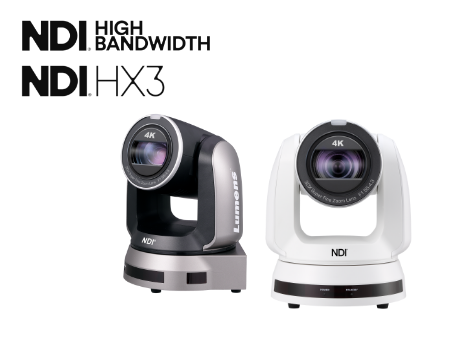
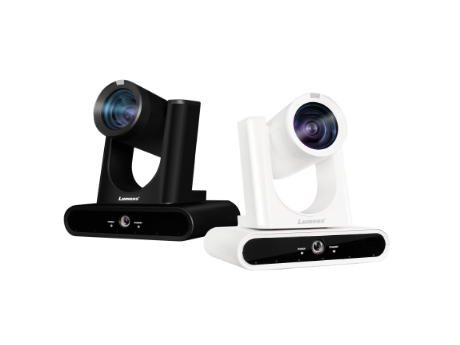
Fix homepage polish issues from design review
- Swap the entry-card product photo for one without the "NDI" text
  overlay baked in.
- Add missing spacing between the hero search bar and the entry cards
  below it (they were touching).
- Drop the entry-card eyebrow badge — it duplicated the heading text
  directly below it.

diff --git a/assets/css/style.css b/assets/css/style.css
@@ -47,7 +47,6 @@
   --card-dark-ink:#ffffff;
   --card-dark-ink-soft:rgba(255,255,255,.68);
   --card-dark-chip:rgba(255,255,255,.10);
-  --card-dark-badge:rgba(255,255,255,.12);
 
   --radius-sm:6px;
   --radius:10px;
@@ -213,7 +212,7 @@ ul{margin:0; padding:0;}
 .hero h1{font-size:38px; margin-bottom:14px; color:#fff; font-weight:800; letter-spacing:-.01em; line-height:1.3;}
 .hero p.lede{color:rgba(255,255,255,.85); font-size:16px; max-width:620px; margin-bottom:32px;}
 
-.hero-search{max-width:600px;}
+.hero-search{max-width:600px; margin-bottom:40px;}
 .hero-search form{
   display:flex; gap:8px; background:#fff; padding:7px; border-radius:13px;
   box-shadow:0 22px 44px -16px rgba(2,14,32,.5);
@@ -244,7 +243,7 @@ ul{margin:0; padding:0;}
 .entry-card{
   position:relative; overflow:hidden; display:block; min-height:252px;
   background:linear-gradient(160deg,var(--card-dark-1),var(--card-dark-2));
-  border-radius:18px; padding:30px 30px 26px;
+  border-radius:18px; padding:36px 30px 26px;
   box-shadow:var(--shadow-float);
   transition:transform .18s ease, box-shadow .18s ease;
   text-decoration:none;
@@ -255,10 +254,6 @@ ul{margin:0; padding:0;}
 }
 .entry-card .entry-photo img{width:100%; height:auto; display:block; filter:drop-shadow(0 14px 22px rgba(0,0,0,.45));}
 .entry-card .entry-graphic{position:absolute; right:18px; top:18px; width:108px; height:108px; opacity:.95; pointer-events:none;}
-.entry-card .badge{
-  display:inline-block; position:relative; z-index:1; font-size:11px; font-weight:700; letter-spacing:.07em; text-transform:uppercase;
-  color:#bcdcff; background:var(--card-dark-badge); padding:5px 12px; border-radius:100px; margin-bottom:18px;
-}
 .entry-card h3{position:relative; z-index:1; font-size:21px; color:var(--card-dark-ink); margin-bottom:8px; max-width:70%;}
 .entry-card p{position:relative; z-index:1; color:var(--card-dark-ink-soft); font-size:13.5px; max-width:60%; margin-bottom:22px;}
 .entry-card .chips{position:relative; z-index:1; display:flex; gap:8px; margin-bottom:22px;}

diff --git a/assets/js/page-home.js b/assets/js/page-home.js
@@ -28,7 +28,6 @@
     document.getElementById("entryProduct").innerHTML =
       '<a class="entry-card" href="' + I18N.urlFor("products.html", lang) + '">' +
         '<span class="entry-photo"><img src="assets/images/home/entry-product-highlight.png" alt="" loading="lazy"></span>' +
-        '<span class="badge">' + esc(t.nav.byProduct) + "</span>" +
         "<h3>" + esc(t.home.enterByProductTitle) + "</h3>" +
         "<p>" + esc(t.home.enterByProductDesc) + "</p>" +
         '<span class="chips"><span class="chip">' + chipCamera + '</span><span class="chip">' + chipBox + '</span><span class="chip">' + chipLens + "</span></span>" +
@@ -38,7 +37,6 @@
     document.getElementById("entryType").innerHTML =
       '<a class="entry-card" href="' + I18N.urlFor("manual-types.html", lang) + '">' +
         '<span class="entry-graphic"><svg viewBox="0 0 100 100" width="100%" height="100%"><rect x="26" y="10" width="48" height="62" rx="6" fill="#25436f"/><rect x="16" y="20" width="48" height="62" rx="6" fill="#2f6fae"/><rect x="24" y="34" width="32" height="4" rx="2" fill="#bcdcff"/><rect x="24" y="44" width="32" height="4" rx="2" fill="#bcdcff" opacity=".7"/><rect x="24" y="54" width="20" height="4" rx="2" fill="#bcdcff" opacity=".5"/></svg></span>' +
-        '<span class="badge">' + esc(t.nav.byType) + "</span>" +
         "<h3>" + esc(t.home.enterByTypeTitle) + "</h3>" +
         "<p>" + esc(t.home.enterByTypeDesc) + "</p>" +
         '<span class="chips"><span class="chip">' + chipGuide + '</span><span class="chip">' + chipInstall + '</span><span class="chip">' + chipQuick + "</span></span>" +

diff --git a/manual-viewer.html b/manual-viewer.html
@@ -5,7 +5,7 @@
 <meta name="viewport" content="width=device-width, initial-scale=1">
 <title data-i18n-site-name>Lumens Manual Center</title>
 <meta name="theme-color" content="#008ed3">
-<link rel="stylesheet" href="assets/css/style.css?v=8f4a121">
+<link rel="stylesheet" href="assets/css/style.css?v=8f4a122">
 </head>
 <body data-page="products">
 <a class="skip-link" href="#main">Skip to content</a>

diff --git a/product-detail.html b/product-detail.html
@@ -5,7 +5,7 @@
 <meta name="viewport" content="width=device-width, initial-scale=1">
 <title data-i18n-site-name>Lumens Manual Center</title>
 <meta name="theme-color" content="#008ed3">
-<link rel="stylesheet" href="assets/css/style.css?v=8f4a121">
+<link rel="stylesheet" href="assets/css/style.css?v=8f4a122">
 </head>
 <body data-page="products">
 <a class="skip-link" href="#main">Skip to content</a>

diff --git a/products.html b/products.html
@@ -5,7 +5,7 @@
 <meta name="viewport" content="width=device-width, initial-scale=1">
 <title data-i18n-site-name>Lumens Manual Center</title>
 <meta name="theme-color" content="#008ed3">
-<link rel="stylesheet" href="assets/css/style.css?v=8f4a121">
+<link rel="stylesheet" href="assets/css/style.css?v=8f4a122">
 </head>
 <body data-page="products">
 <a class="skip-link" href="#main">Skip to content</a>

diff --git a/search.html b/search.html
@@ -5,7 +5,7 @@
 <meta name="viewport" content="width=device-width, initial-scale=1">
 <title data-i18n-site-name>Lumens Manual Center</title>
 <meta name="theme-color" content="#008ed3">
-<link rel="stylesheet" href="assets/css/style.css?v=8f4a121">
+<link rel="stylesheet" href="assets/css/style.css?v=8f4a122">
 </head>
 <body data-page="search">
 <a class="skip-link" href="#main">Skip to content</a>

diff --git a/manual-type-detail.html b/manual-type-detail.html
@@ -5,7 +5,7 @@
 <meta name="viewport" content="width=device-width, initial-scale=1">
 <title data-i18n-site-name>Lumens Manual Center</title>
 <meta name="theme-color" content="#008ed3">
-<link rel="stylesheet" href="assets/css/style.css?v=8f4a121">
+<link rel="stylesheet" href="assets/css/style.css?v=8f4a122">
 </head>
 <body data-page="types">
 <a class="skip-link" href="#main">Skip to content</a>

diff --git a/manual-types.html b/manual-types.html
@@ -5,7 +5,7 @@
 <meta name="viewport" content="width=device-width, initial-scale=1">
 <title data-i18n-site-name>Lumens Manual Center</title>
 <meta name="theme-color" content="#008ed3">
-<link rel="stylesheet" href="assets/css/style.css?v=8f4a121">
+<link rel="stylesheet" href="assets/css/style.css?v=8f4a122">
 </head>
 <body data-page="types">
 <a class="skip-link" href="#main">Skip to content</a>

diff --git a/index.html b/index.html
@@ -5,7 +5,7 @@
 <meta name="viewport" content="width=device-width, initial-scale=1">
 <title data-i18n-site-name>Lumens Manual Center</title>
 <meta name="theme-color" content="#008ed3">
-<link rel="stylesheet" href="assets/css/style.css?v=8f4a121">
+<link rel="stylesheet" href="assets/css/style.css?v=8f4a122">
 </head>
 <body data-page="home">
 <a class="skip-link" href="#main">Skip to content</a>

diff --git a/qa.html b/qa.html
@@ -5,7 +5,7 @@
 <meta name="viewport" content="width=device-width, initial-scale=1">
 <title data-i18n-site-name>Lumens Manual Center</title>
 <meta name="theme-color" content="#008ed3">
-<link rel="stylesheet" href="assets/css/style.css?v=8f4a121">
+<link rel="stylesheet" href="assets/css/style.css?v=8f4a122">
 </head>
 <body data-page="qa">
 <a class="skip-link" href="#main">Skip to content</a>
